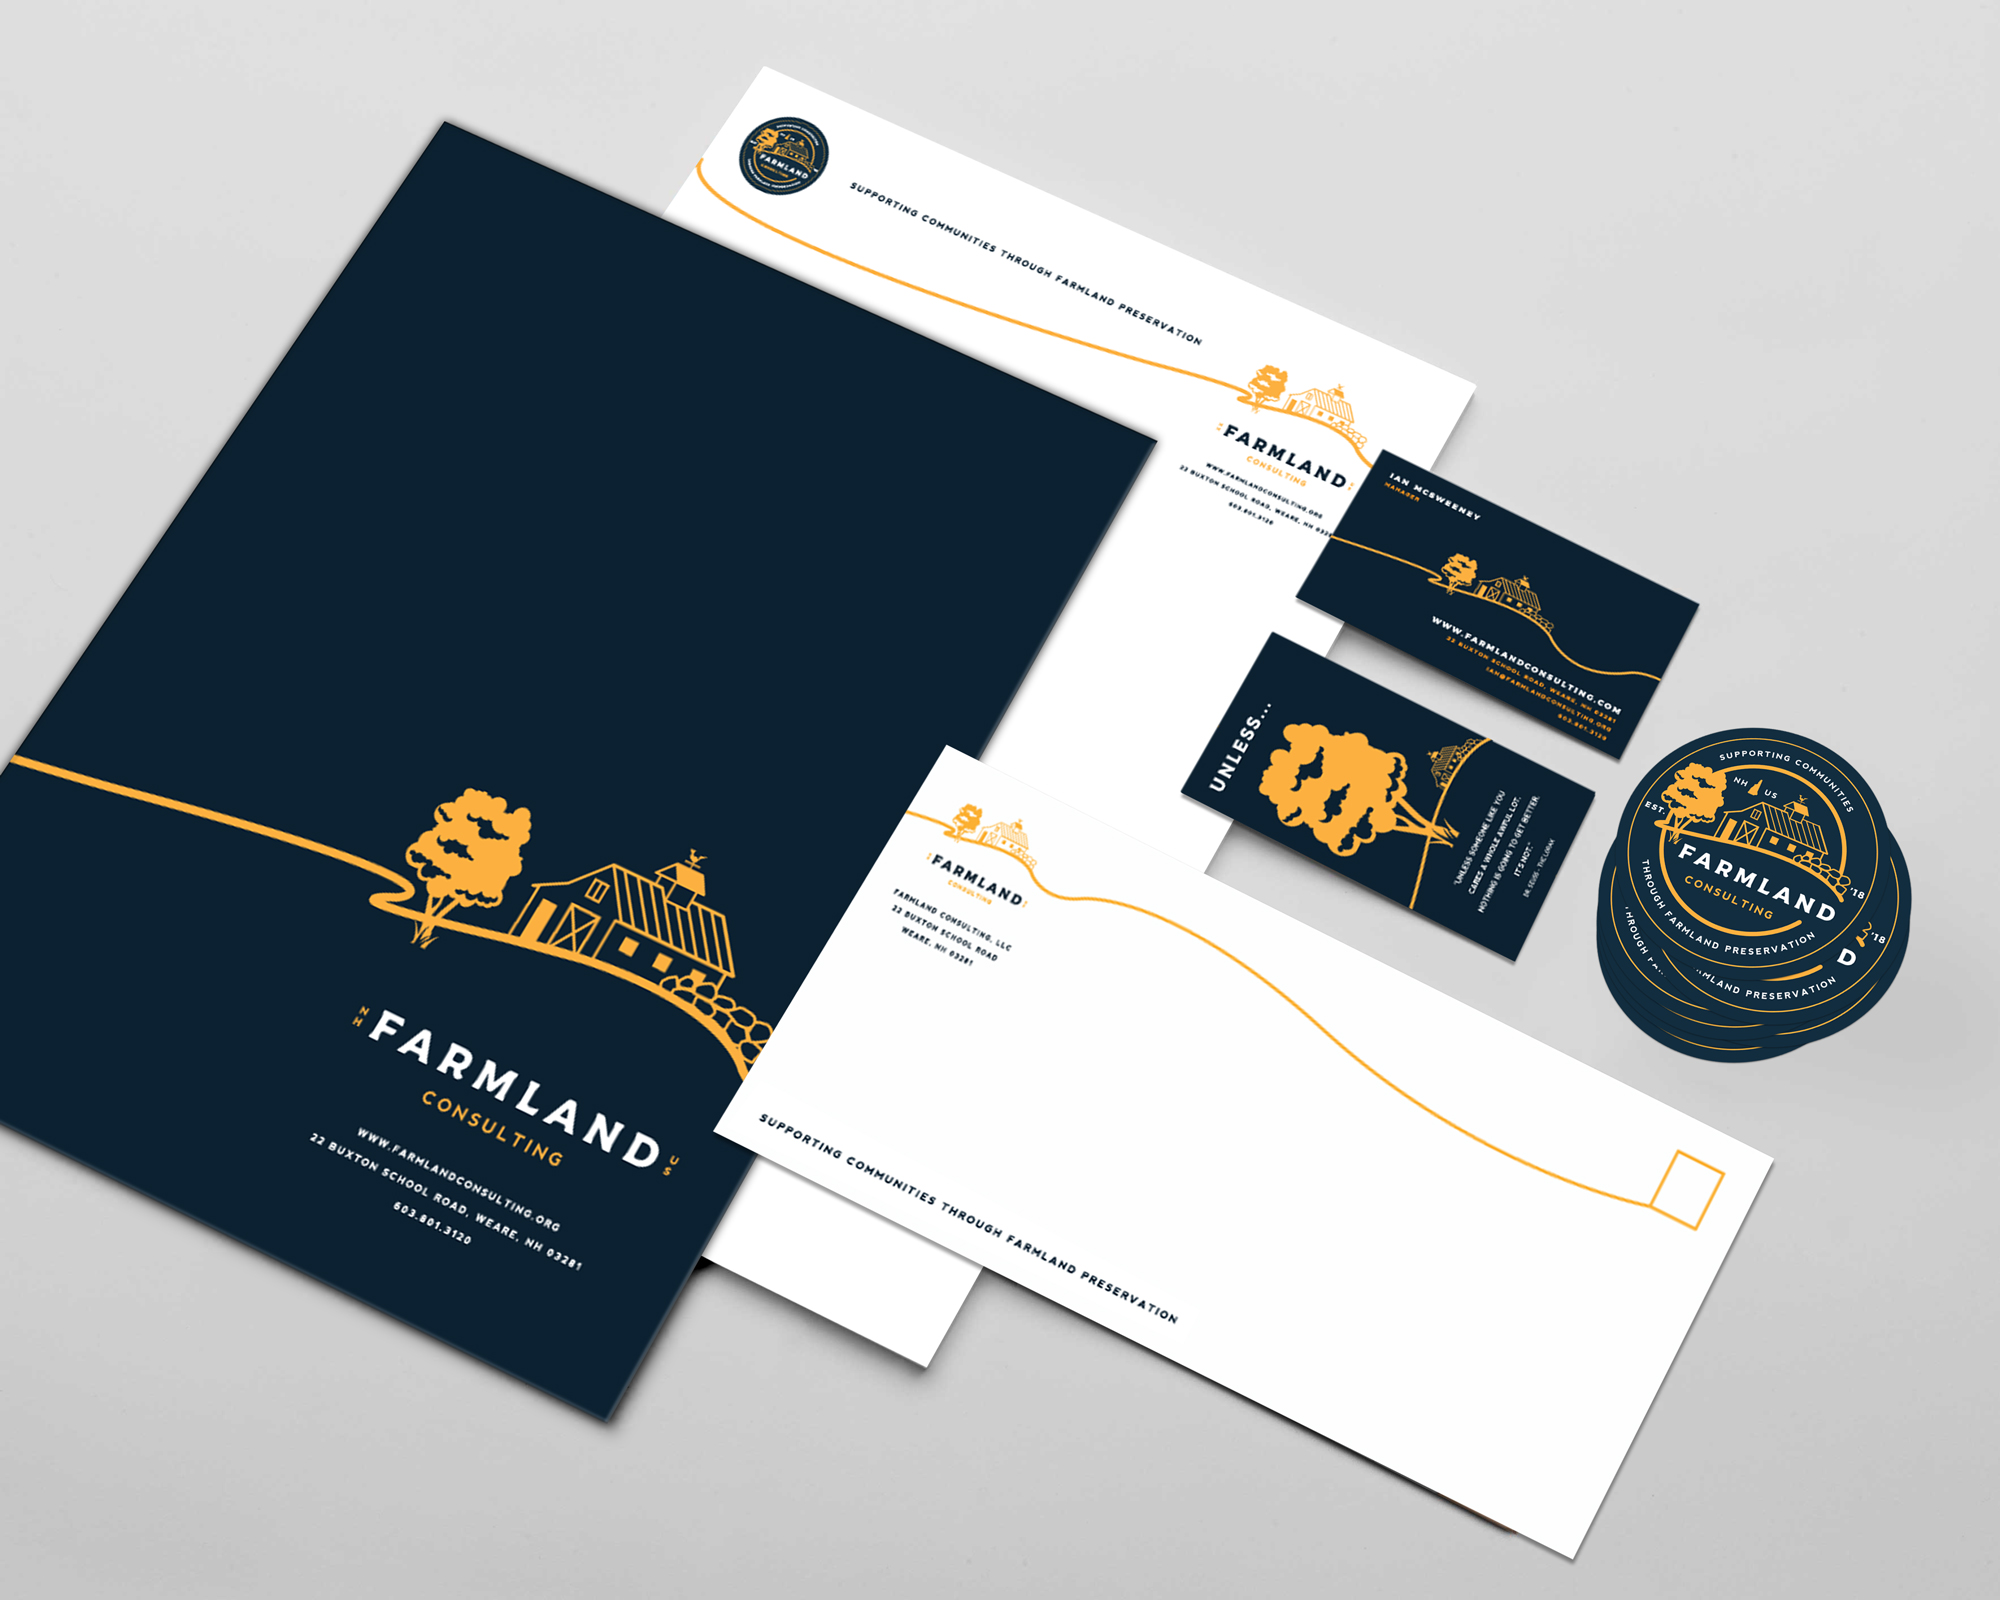
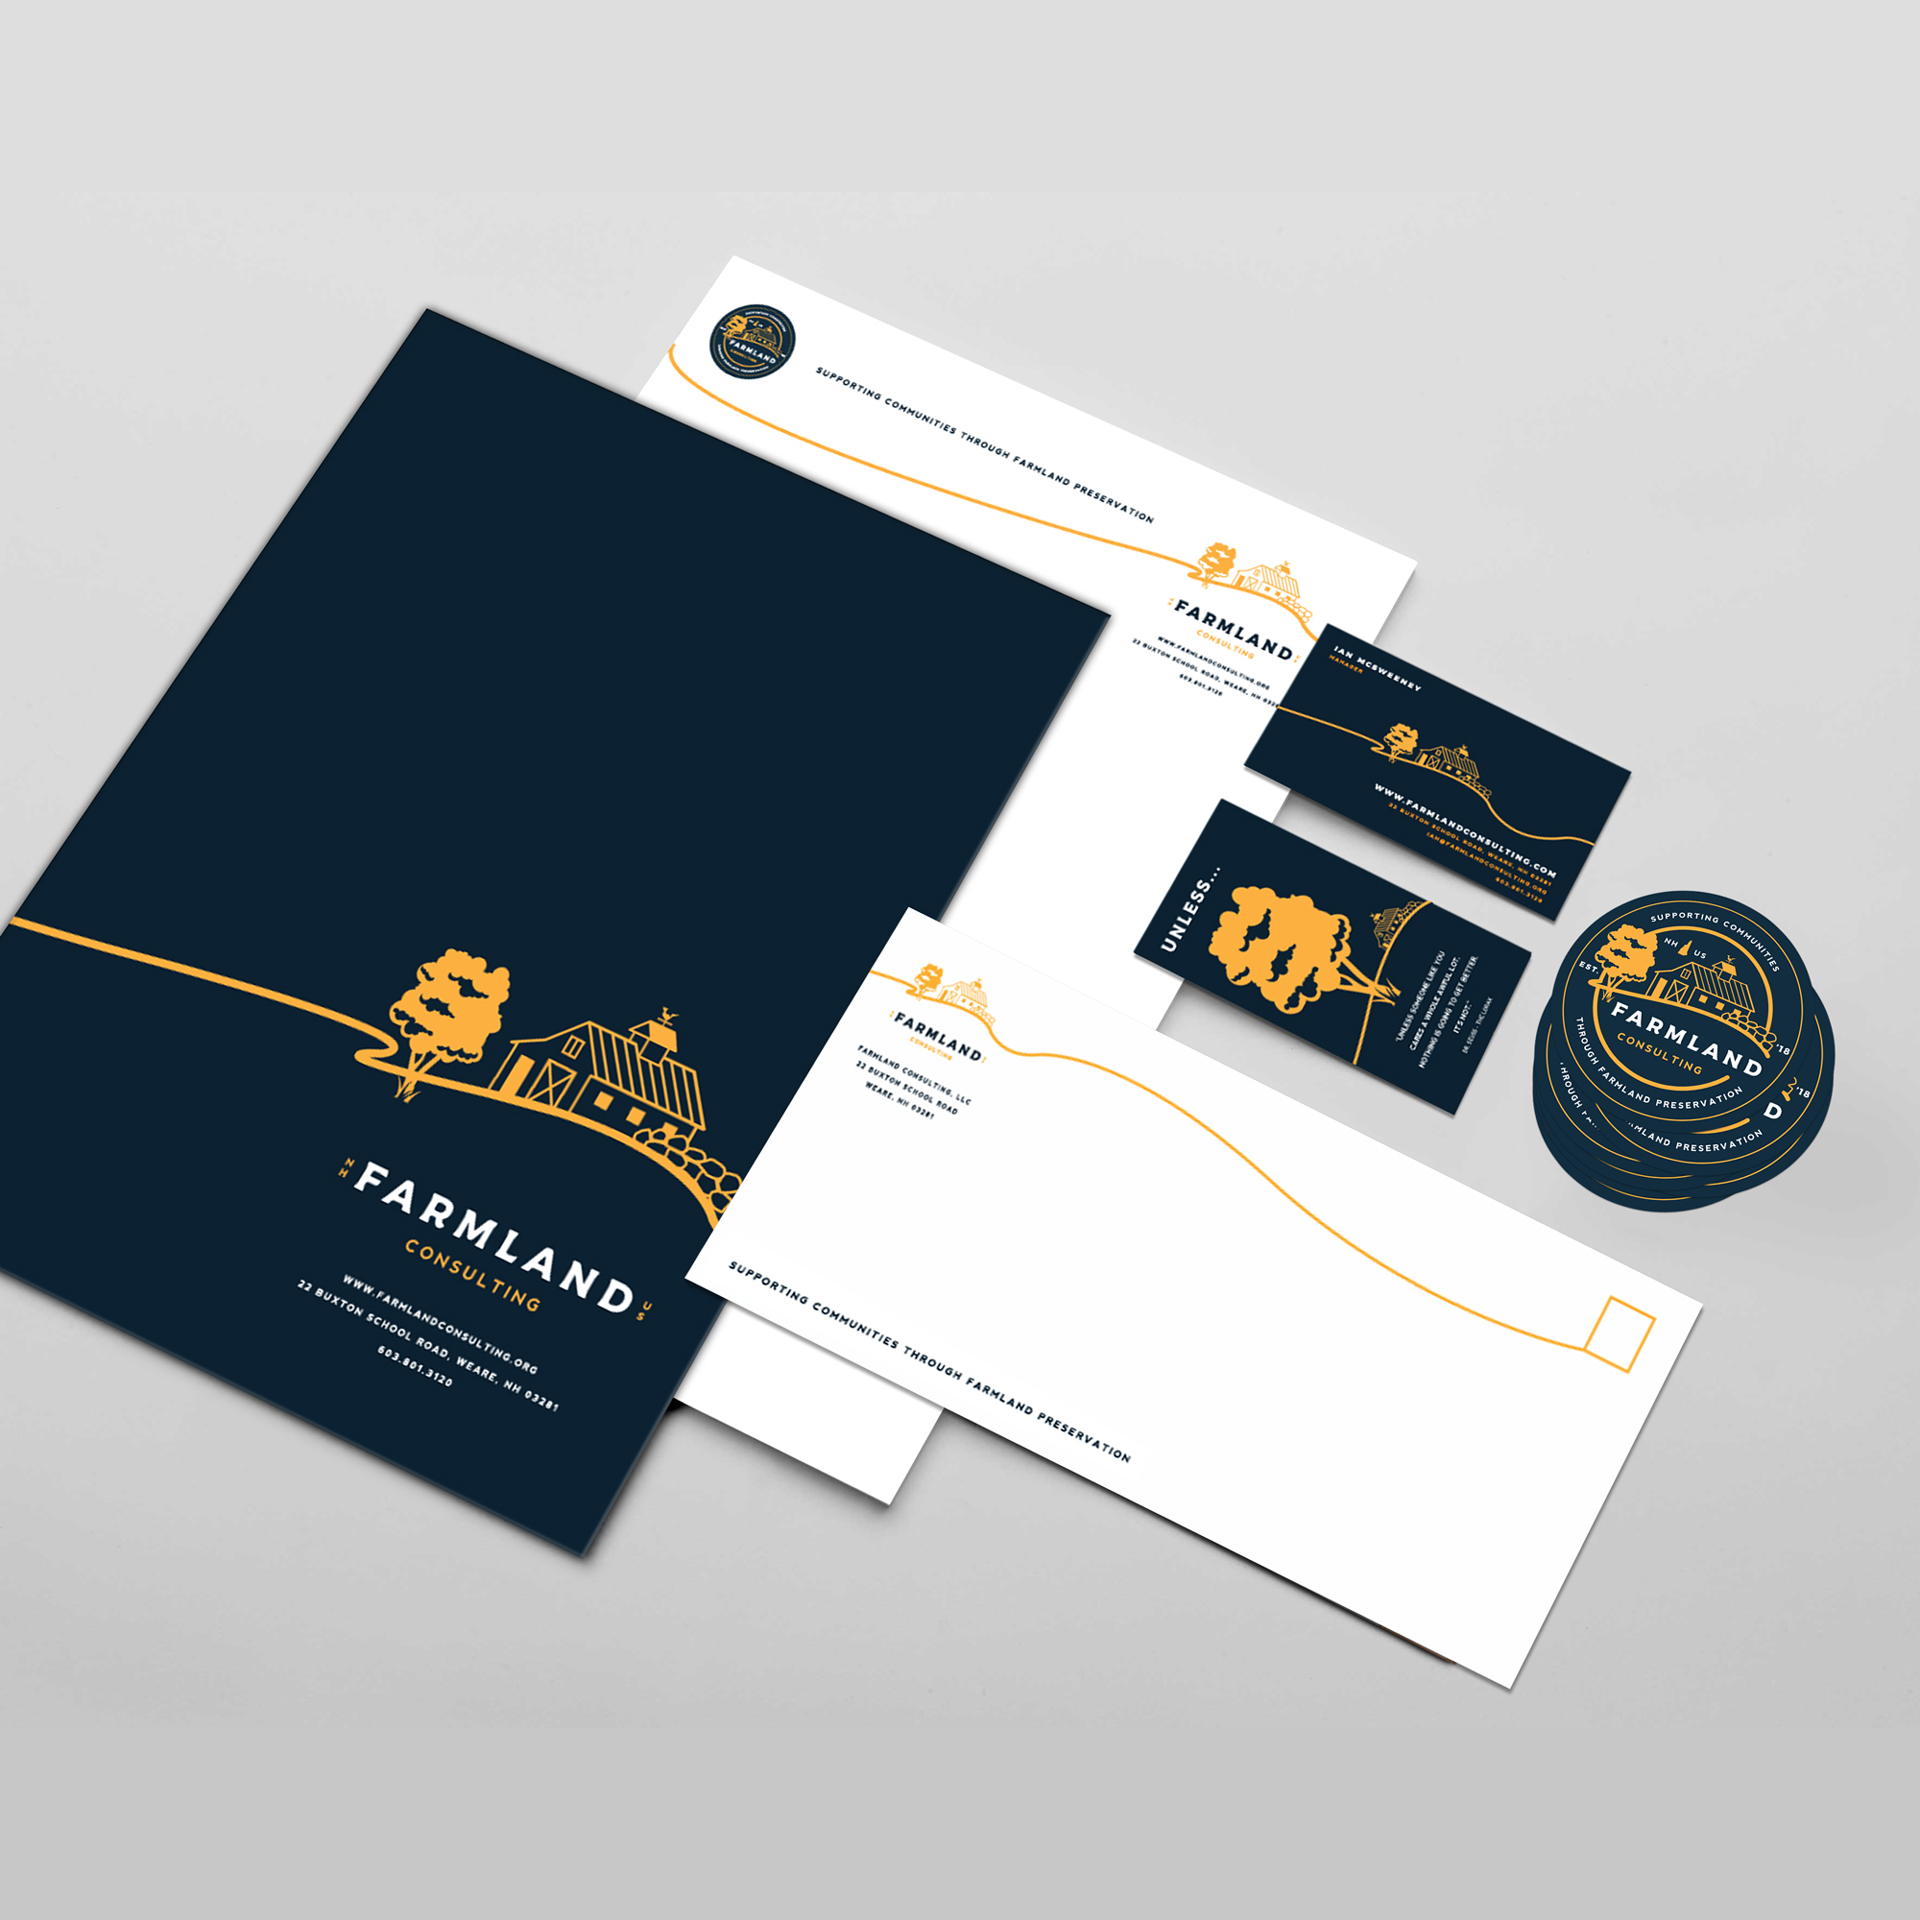
feat(projects): add Hingham Homemade Face Mask Initiative print project

diff --git a/server/src/projects/seed.service.ts b/server/src/projects/seed.service.ts
@@ -7,7 +7,7 @@ export class SeedService implements OnModuleInit {
   constructor(private readonly projectsService: ProjectsService) {}
 
   async onModuleInit() {
-    this.logger.log('Starting project seeding process [v12]...');
+    this.logger.log('Starting project seeding process [v13]...');
     try {
       await this.projectsService.clearAll();
       this.logger.log('Database cleared successfully.');
@@ -34,7 +34,7 @@ export class SeedService implements OnModuleInit {
         tags: ['Branding', 'Print', 'Signage', 'Web Design'],
         type: 'print-only',
         isFeatured: false,
-        order: 0,
+        order: 5,
         completedDate: 'February 2026',
       },
       {
@@ -43,19 +43,20 @@ export class SeedService implements OnModuleInit {
         imageUrl: '/assets/projects/farmland/FarmlandConsulting_StationaryMockup.jpg',
         gallery: [
           '/assets/projects/farmland/FarmlandConsulting_StationaryMockup.jpg',
+          '/assets/projects/farmland/FarmlandConsulting_seal_Final.png',
           '/assets/projects/farmland/Farmland_Letterhead_folder.png',
           '/assets/projects/farmland/Farmland_Letterhead.png',
           '/assets/projects/farmland/FarmlandConsulting_businesscard-front.png',
           '/assets/projects/farmland/FarmlandConsulting_businesscard-back.png',
           '/assets/projects/farmland/FarmlandConsulting_envelope.png',
           '/assets/projects/farmland/business_card_mockup.jpg',
-          '/assets/projects/farmland/FarmlandConsulting_seal_Final.png',
         ],
         mockupUrl: '/assets/projects/farmland/FarmlandConsulting_StationaryMockup.jpg',
         content: 'Farmland Consulting provides expert advisory services to the agricultural sector.',
         tags: ['Branding', 'Print', 'Identity'],
         type: 'print-only',
         order: 1,
+        layout: 'grid-2',
         completedDate: 'January 2026',
       },
       {
@@ -75,8 +76,27 @@ export class SeedService implements OnModuleInit {
         content: 'Pinnacle Solutions is a leading provider of enterprise-grade technology and consulting services.',
         tags: ['Branding', 'Print', 'Graphic Design'],
         type: 'print-only',
-        order: 2,
+        order: 4,
         completedDate: 'March 2026',
+      },
+      {
+        title: 'Hingham Homemade Face Mask Initiative',
+        description: 'Community-driven brand identity and merchandise for a local COVID-19 relief effort.',
+        imageUrl: '/assets/projects/hingham-face-mask/HHFMI-stickers.jpg',
+        gallery: [
+          '/assets/projects/hingham-face-mask/HHFMI-stickers.jpg',
+          '/assets/projects/hingham-face-mask/HHFMI-mug.jpg',
+          '/assets/projects/hingham-face-mask/HHFMI-pin-badge.jpg',
+          '/assets/projects/hingham-face-mask/HHFMI-t-shirt.png',
+          '/assets/projects/hingham-face-mask/HHFMI-Vector-transparent-bg.png',
+        ],
+        mockupUrl: '/assets/projects/hingham-face-mask/HHFMI-stickers.jpg',
+        content: 'The Hingham Homemade Face Mask Initiative was a volunteer-led effort to provide protective gear to the community during the pandemic. The branding project focused on creating a unified, hopeful visual identity that could be applied across various volunteer-led initiatives.',
+        tags: ['Branding', 'Print', 'Non-Profit'],
+        type: 'print-only',
+        layout: 'grid-2',
+        order: 5,
+        completedDate: 'April 2020',
       },
       {
         title: 'Dingo Films',
@@ -108,13 +128,13 @@ export class SeedService implements OnModuleInit {
         imageUrl: '/assets/projects/the-service-course/bizcard-mockup.jpg',
         gallery: [
           '/assets/projects/the-service-course/bizcard-mockup.jpg',
-          '/assets/projects/the-service-course/scene-09.jpg',
-          '/assets/projects/the-service-course/mockup-4.jpg',
           '/assets/projects/the-service-course/mockup-5.jpg',
           '/assets/projects/the-service-course/stickers.jpg',
+          '/assets/projects/the-service-course/mockup-4.jpg',
+          '/assets/projects/the-service-course/scene-09.jpg',
+          '/assets/projects/the-service-course/tshirt.jpg',
           '/assets/projects/the-service-course/bizcard-front.png',
           '/assets/projects/the-service-course/bizcard-back.png',
-          '/assets/projects/the-service-course/tshirt.jpg',
           '/assets/projects/the-service-course/tag-mockup.jpg',
           '/assets/projects/the-service-course/tag.jpg',
         ],
@@ -123,7 +143,25 @@ export class SeedService implements OnModuleInit {
         tags: ['Branding', 'Print', 'Apparel Design'],
         type: 'print-only',
         layout: 'grid-2',
-        order: 4,
+        order: 0,
+        completedDate: 'February 2026',
+      },
+      {
+        title: 'Solo Century Cyclist',
+        description: 'Brand identity and custom apparel for a specialized endurance cycling initiative.',
+        imageUrl: '/assets/projects/solo-century-cyclist/bizcard-mockup.jpg',
+        gallery: [
+          '/assets/projects/solo-century-cyclist/logo-glamour.png',
+          '/assets/projects/solo-century-cyclist/solo-century-cyclist-bizcard-mockup.jpg',
+          '/assets/projects/solo-century-cyclist/tshirt-mockup.png',
+          '/assets/projects/solo-century-cyclist/stickers.jpg',
+        ],
+        mockupUrl: '/assets/projects/solo-century-cyclist/bizcard-mockup.jpg',
+        content: 'Solo Century Cyclist celebrates the spirit of independent endurance cycling through bold branding and high-visibility technical apparel.',
+        tags: ['Branding', 'Apparel Design', 'Print'],
+        type: 'print-only',
+        layout: 'grid-2',
+        order: 2,
         completedDate: 'February 2026',
       },
       {
@@ -599,24 +637,7 @@ export class SeedService implements OnModuleInit {
         order: 20,
         completedDate: 'June 2026',
       },
-      {
-        title: 'Solo Century Cyclist',
-        description: 'Brand identity and custom apparel for a specialized endurance cycling initiative.',
-        imageUrl: '/assets/projects/solo-century-cyclist/bizcard-mockup.jpg',
-        gallery: [
-          '/assets/projects/solo-century-cyclist/logo-glamour.png',
-          '/assets/projects/solo-century-cyclist/solo-century-cyclist-bizcard-mockup.jpg',
-          '/assets/projects/solo-century-cyclist/tshirt-mockup.png',
-          '/assets/projects/solo-century-cyclist/stickers.jpg',
-        ],
-        mockupUrl: '/assets/projects/solo-century-cyclist/bizcard-mockup.jpg',
-        content: 'Solo Century Cyclist celebrates the spirit of independent endurance cycling through bold branding and high-visibility technical apparel.',
-        tags: ['Branding', 'Apparel Design', 'Print'],
-        type: 'print-only',
-        layout: 'grid-2',
-        order: 21,
-        completedDate: 'February 2026',
-      },
+      
     ];
 
     for (const projectData of initialProjects) {

diff --git a/server/src/main.ts b/server/src/main.ts
@@ -19,4 +19,4 @@ async function bootstrap() {
   logger.log(`Application is running on port: ${port}`);
 }
 bootstrap();
-// Trigger Deploy: 2026-02-14 01:46:00
+// Trigger Deploy: 2026-02-14 03:07:00
